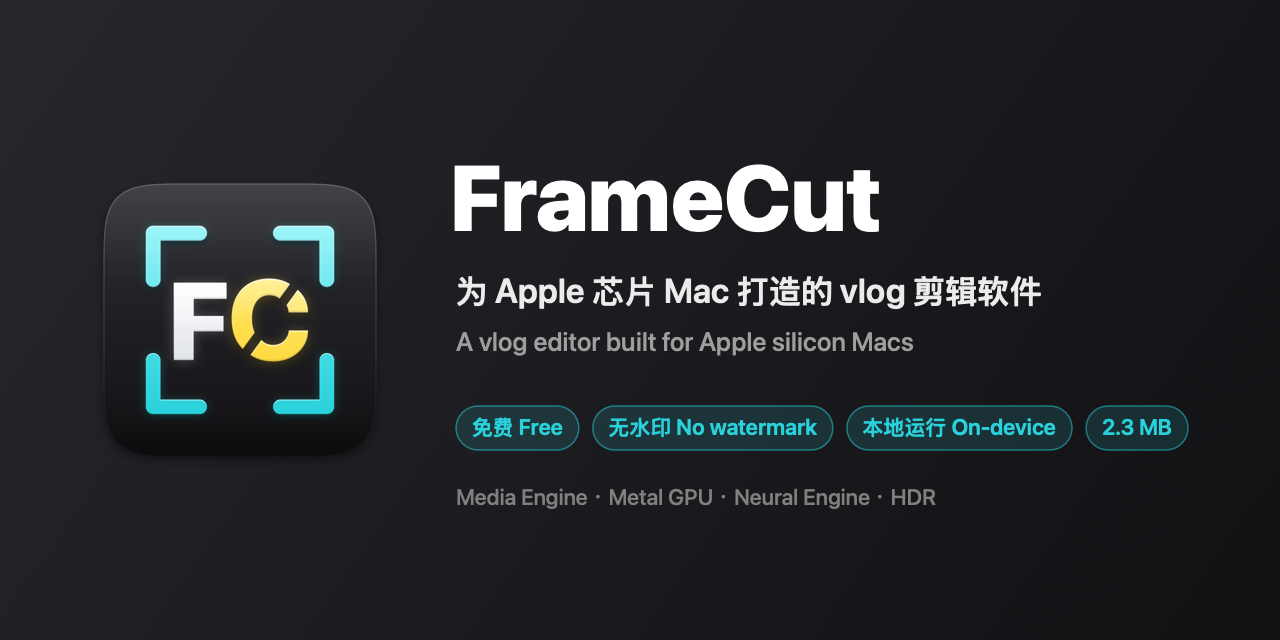
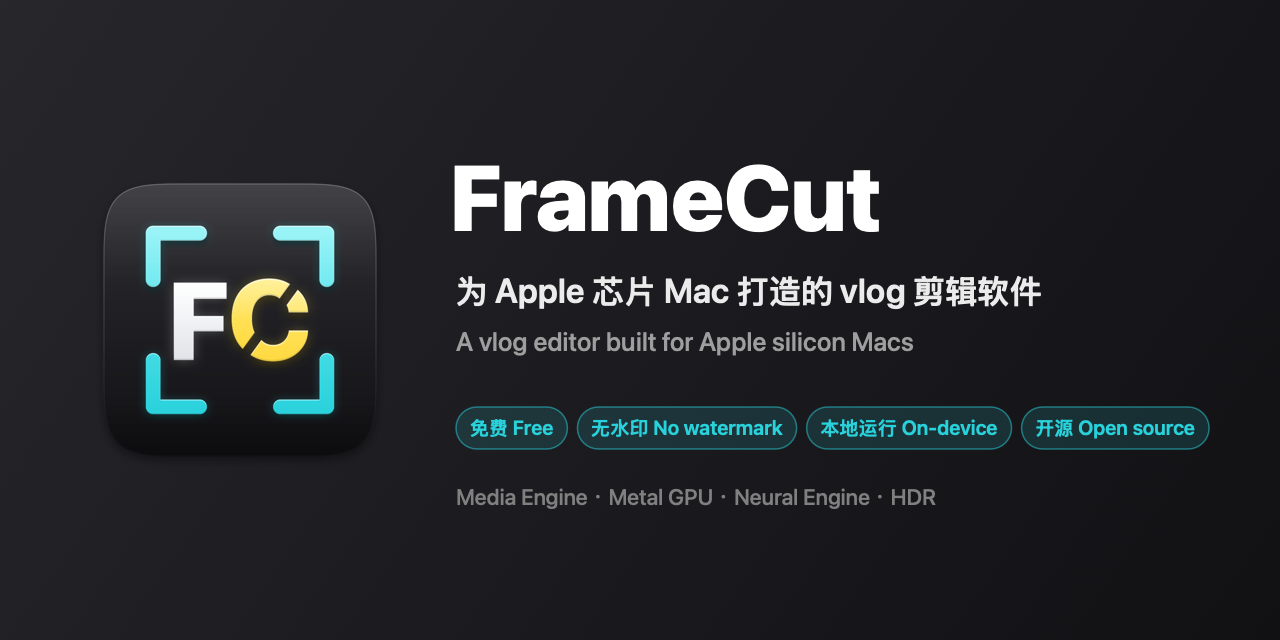
docs: 分享图与 README 不写具体安装包大小
分享图的「2.3 MB」标签换成「开源 Open source」，标签略缩小以放下四个；
README 改为「不到 3 MB / 不到 10 MB」，每次发版不用改图和文案，具体大小写在 Release 说明里。

Changed region(s): [[0.3438, 0.625, 0.9688, 0.7188]]

diff --git a/scripts/make-social-preview.swift b/scripts/make-social-preview.swift
@@ -1,5 +1,5 @@
 // 生成仓库分享图（1280×640，GitHub Social preview / README 横幅）。
-// 用法：swift scripts/make-social-preview.swift <图标1024.png> <输出.png>
+// 用法：swift scripts/make-social-preview.swift App/Assets.xcassets/AppIcon.appiconset/icon_512x512@2x.png docs/images/social-preview.png
 import AppKit
 
 let args = CommandLine.arguments
@@ -29,14 +29,14 @@ text("A vlog editor built for Apple silicon Macs", size: 26, weight: .medium, co
 
 // 卖点标签
 var x: CGFloat = 456
-for label in ["免费 Free", "无水印 No watermark", "本地运行 On-device", "2.3 MB"] {
-    let attr = NSAttributedString(string: label, attributes: [.font: NSFont.systemFont(ofSize: 22, weight: .semibold), .foregroundColor: accent])
-    let w = attr.size().width + 32
-    let pill = NSBezierPath(roundedRect: NSRect(x: x, y: 190, width: w, height: 44), xRadius: 22, yRadius: 22)
+for label in ["免费 Free", "无水印 No watermark", "本地运行 On-device", "开源 Open source"] {
+    let attr = NSAttributedString(string: label, attributes: [.font: NSFont.systemFont(ofSize: 20, weight: .semibold), .foregroundColor: accent])
+    let w = attr.size().width + 28
+    let pill = NSBezierPath(roundedRect: NSRect(x: x, y: 191, width: w, height: 42), xRadius: 21, yRadius: 21)
     accent.withAlphaComponent(0.14).setFill(); pill.fill()
     accent.withAlphaComponent(0.5).setStroke(); pill.lineWidth = 1.5; pill.stroke()
-    attr.draw(at: NSPoint(x: x + 16, y: 200))
-    x += w + 14
+    attr.draw(at: NSPoint(x: x + 14, y: 200))
+    x += w + 10
 }
 text("Media Engine · Metal GPU · Neural Engine · HDR", size: 22, weight: .medium, color: NSColor(white: 0.5, alpha: 1), at: NSPoint(x: 456, y: 130))
 

diff --git a/README.en.md b/README.en.md
@@ -10,7 +10,7 @@
   <a href="LICENSE"><img src="https://img.shields.io/badge/license-MIT-blue" alt="MIT"></a>
 </p>
 
-<p align="center"><b>A vlog editor built for Apple silicon Macs</b> · Free · No watermark · Fully on-device · 2.3 MB download<br>
+<p align="center"><b>A vlog editor built for Apple silicon Macs</b> · Free · No watermark · Fully on-device · Under 3 MB download<br>
 <a href="https://github.com/lidedongsn/frame-cut/releases/latest"><b>⬇ Download the latest release</b></a></p>
 
 <p align="center"><a href="README.md">中文</a> · English</p>
@@ -53,7 +53,7 @@ automatically if rendering falls behind, so playback stays smooth.
 
 ### Small and tidy
 
-- **2.3 MB download, about 7 MB installed.** No embedded browser engine, no bundled plug-ins, only native system frameworks.
+- **Under 3 MB to download, under 10 MB installed.** No embedded browser engine, no bundled plug-ins, only native system frameworks.
 - The speech model (about 600 MB) is **downloaded the first time you generate captions**. If you never use
   captions it takes no space, and you can delete it from the Captions panel with one click.
 - Every in-memory cache has a limit and is released when you close a project or the system runs low on memory;
